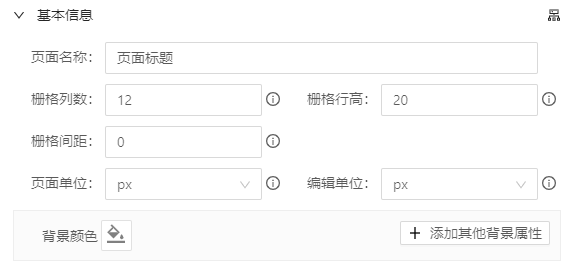
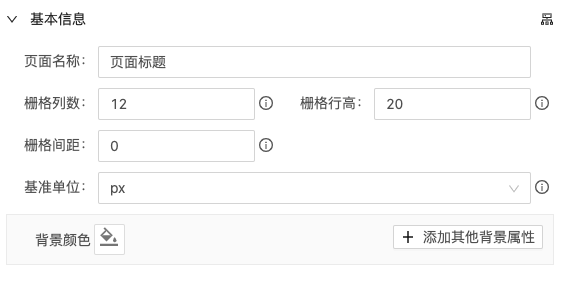
文档更新

diff --git a/documents/page/README.md b/documents/page/README.md
@@ -38,6 +38,19 @@
         
         这里也可以通过脚本规则在页面运行时中获取或计算
 
+    - **基准单位**
 
-### 全局方法
+        页面的基准单位.
+        px: 页面将直接以px返回单位
+        rem: 在移动端时我们用rem单位来做适配,当我们设置为rem时需要设置UI宽度和基准像素,用于单位换算,最终按比例以像素为单位将计算结果运行到到客户端
+
+        > UI设计下，1rem=1基准像素
+
+    - **背景颜色**
+  
+        用于页面背景设置,可以设置页面的背景颜色/图片等; 请参考[背景样式设定](./../styles/README.md)
+
+### 初始化Api
+
+  页面初始化时将调用这里配置的Api,常用于全局数据的初始化(Api请求数据,再把数据发布高运行时供下游数据模块使用,具体查看[Api设置](./../apiConfig/README.md))
 

diff --git a/documents/apiConfig/README.md b/documents/apiConfig/README.md
@@ -111,6 +111,8 @@
     }
   ```
 
+  [查看js规则](./../script/README.md)
+
   #### 将结果返回到运行时
   通过此功能可以把Api请求数据成功或失败的结果返回到运行时中供下游使用<br />
   ![-](./api_12.png)<br />

diff --git a/documents/script/README.md b/documents/script/README.md
@@ -1,1 +1,3 @@
-## 脚本
+## 数据匹配规则
+### {{}}取数规则
+### js{{}}表达式规则 source.xxx
